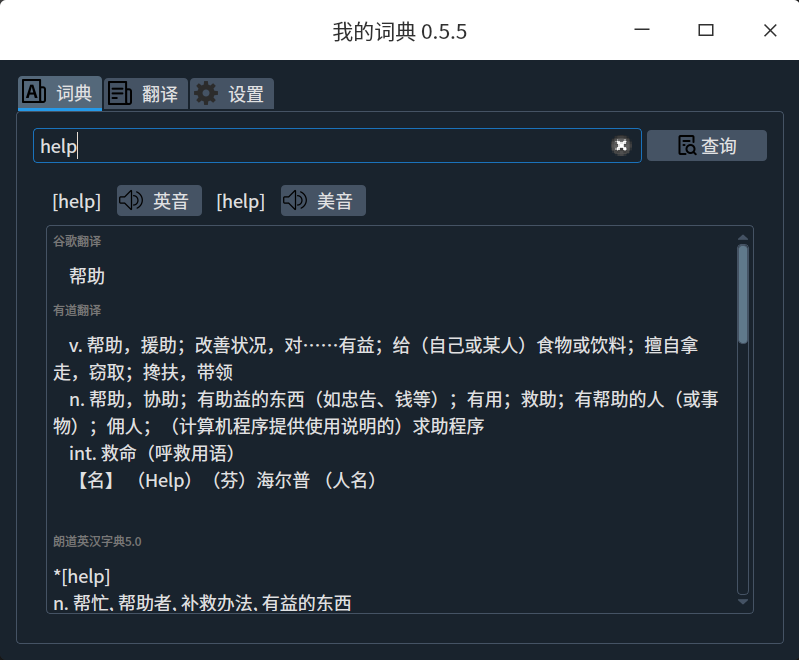
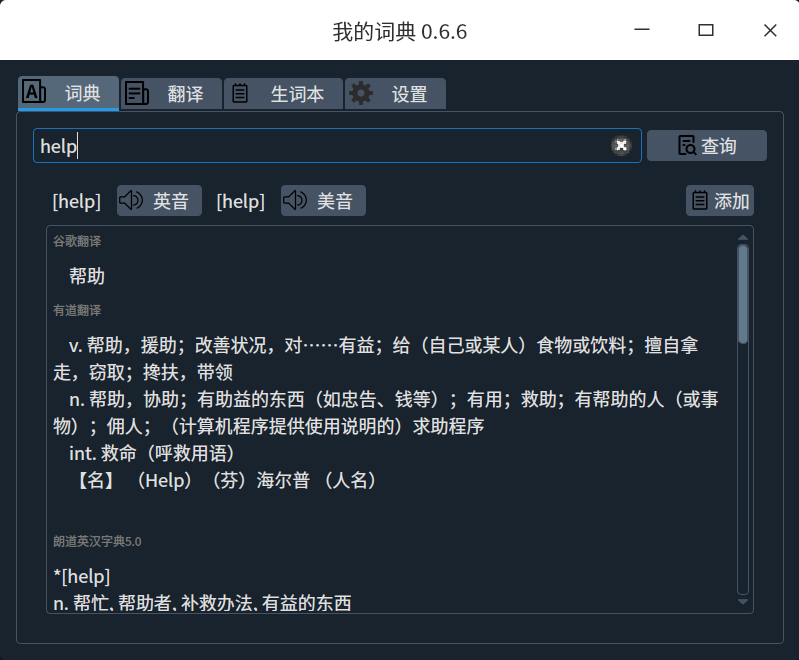
更新readme

Changed region(s): [[0.0601, 0.1212, 0.5707, 0.1818], [0.8411, 0.2727, 0.9612, 0.3333], [0.5407, 0.0303, 0.6008, 0.0606]]

diff --git a/src/UI/word_book.py b/src/UI/word_book.py
@@ -4,16 +4,15 @@ from PyQt5.QtWidgets import QWidget, QComboBox, QPushButton, QCheckBox, QTableWi
 
 from src.UI.review import UiReview
 from src.UI.util import create_line, create_multi_line
-from src.backend.word_book import word_book
+from src.backend.word_book import WordBook
 from src.events import events
 
 
 class UiSelectGroup(QDialog):
     group_id = -1
 
-    def __init__(self):
-        super().__init__()
-
+    def __init__(self, parent, word_book):
+        super().__init__(parent)
         self.combo_groups = QComboBox()
         self.combo_groups.clear()
         for group in word_book.get_groups():
@@ -32,16 +31,16 @@ class UiSelectGroup(QDialog):
 
     def on_ok(self):
         self.group_id = self.combo_groups.currentData()
-        print("dest group_id", self.group_id)
         self.accept()
 
 
-class WordBook(QWidget):
+class UiWordBook(QWidget):
     groups = {}
 
     def __init__(self, parent=None):
         super().__init__(parent=parent)
 
+        self.word_book = WordBook()
         events.signal_add_2_wordbook.connect(self.on_add_word)
 
         self.combo_groups = QComboBox()
@@ -94,7 +93,7 @@ class WordBook(QWidget):
     def init_groups(self):
         self.combo_groups.clear()
         self.groups.clear()
-        groups = word_book.get_groups()
+        groups = self.word_book.get_groups()
         for group in groups:
             self.groups[group[0]] = group[1]
         self.combo_groups.addItem("所有分类", -1)
@@ -113,10 +112,10 @@ class WordBook(QWidget):
             return
         for i in range(self.table.rowCount()):
             self.table.removeRow(0)
-        for word in word_book.get_words(self.combo_groups.currentData()):
+        for word in self.word_book.get_words(self.combo_groups.currentData()):
             self.table.insertRow(0)
             word_id = word[0]
-            group_id = word_book.get_group(word_id)
+            group_id = self.word_book.get_group(word_id)
             if len(group_id) > 0:
                 group_id = group_id[0][0]
             else:
@@ -144,22 +143,22 @@ class WordBook(QWidget):
         name, succeed = QInputDialog.getText(self, "新增分类", "分类名称")
         if name is None or not succeed:
             return
-        word_book.create_group(name)
+        self.word_book.create_group(name)
         self.init_groups()
 
     def on_delete_group(self):
         if self.combo_groups.currentIndex() < 0:
             return
-        word_book.delete_group(self.combo_groups.currentData())
+        self.word_book.delete_group(self.combo_groups.currentData())
         self.init_groups()
 
     def on_add_word(self, word, translate):
-        word_id = word_book.add_word(word, translate)
-        word_book.add_word_to_group(word_id, 1)
+        word_id = self.word_book.add_word(word, translate)
+        self.word_book.add_word_to_group(word_id, 1)
         self.init_groups()
 
     def on_change_group(self):
-        d = UiSelectGroup()
+        d = UiSelectGroup(self, self.word_book)
         if d.exec_() != 1:
             return
 
@@ -169,8 +168,8 @@ class WordBook(QWidget):
                 continue
             word_id = item.data(Qt.UserRole)
             group_id = item.data(Qt.UserRole + 1)
-            word_book.add_word_to_group(word_id, d.group_id)
-            word_book.delete_word_from_group(word_id, group_id)
+            self.word_book.add_word_to_group(word_id, d.group_id)
+            self.word_book.delete_word_from_group(word_id, group_id)
 
         self.init_words()
 
@@ -180,7 +179,7 @@ class WordBook(QWidget):
             item = self.table.item(i, 0)
             if item.checkState() != Qt.Checked:
                 continue
-            word_book.delete_word(item.data(Qt.UserRole))
+            self.word_book.delete_word(item.data(Qt.UserRole))
             self.table.removeRow(i)
 
     def on_double_clicked(self, item: QTableWidgetItem):
@@ -188,6 +187,6 @@ class WordBook(QWidget):
         item.setCheckState(Qt.Checked if item.checkState() != Qt.Checked else Qt.Unchecked)
 
     def on_review(self):
-        d = UiReview(self, self.combo_groups.currentData())
+        d = UiReview(self, self.combo_groups.currentData(), self.word_book)
         d.exec_()
         self.init_words()

diff --git a/src/UI/review.py b/src/UI/review.py
@@ -2,10 +2,10 @@ import random
 
 from PyQt5.QtCore import QSize
 from PyQt5.QtGui import QFont
-from PyQt5.QtWidgets import QDialog, QCheckBox, QPushButton, QLabel, QMessageBox, QTextEdit
+from PyQt5.QtWidgets import QDialog, QCheckBox, QPushButton, QMessageBox, QTextEdit
 
 from src.UI.util import create_line, create_multi_line
-from src.backend.word_book import word_book
+from src.backend.word_book import WordBook
 
 
 class UiReview(QDialog):
@@ -13,9 +13,10 @@ class UiReview(QDialog):
     current = -1
     right_index = -1
 
-    def __init__(self, parent, group_id):
+    def __init__(self, parent, group_id, word_book: WordBook):
         super().__init__(parent)
         self.setWindowTitle("复习生词")
+        self.word_book = word_book
         for word in word_book.get_words(group_id, for_review=True):
             self.words.append({
                 "id": word[0],
@@ -73,7 +74,7 @@ class UiReview(QDialog):
                     if self.words[-1] != curr:
                         self.words.append(curr)
                     return
-            word_book.review_word(curr["id"], curr["review_count"] + 1)
+            self.word_book.review_word(curr["id"], curr["review_count"] + 1)
 
         self.current += 1
         if self.current == len(self.words) - 1:

diff --git a/src/main_window.py b/src/main_window.py
@@ -2,8 +2,7 @@ from PyQt5.QtCore import QRect
 from PyQt5.QtWidgets import QWidget, QDesktopWidget, QTabWidget
 
 from src.UI.util import create_line
-from src.UI.word_book import WordBook
-from src.backend import word_book
+from src.UI.word_book import UiWordBook
 from src.backend.online import OnLine
 from src.backend.stardict import StartDict
 from src.events import events
@@ -21,7 +20,6 @@ class MainWindow(QWidget):
 
     def __init__(self, app):
         super().__init__()
-        word_book.init()
         self.app = app
         self.on_setting_changed()
         events.signal_setting_changed.connect(self.on_setting_changed)
@@ -41,7 +39,7 @@ class MainWindow(QWidget):
         self.tab = QTabWidget()
         self.tab.addTab(FindWord(self.online, self.star_dict, self), '  词典  ')
         self.tab.addTab(FindText(self.online, self), '  翻译  ')
-        self.tab.addTab(WordBook(self), '  生词本  ')
+        self.tab.addTab(UiWordBook(self), '  生词本  ')
         self.tab.addTab(SettingWindow(self, self.star_dict), '  设置  ')
         self.tab.tabBar().setMinimumWidth(200)
         self.tab.tabBar().setTabIcon(0, load_icon("word"))

diff --git a/src/backend/word_book.py b/src/backend/word_book.py
@@ -200,10 +200,12 @@ class WordBook:
             return []
 
 
-word_book = None
+_word_book: WordBook = None
 
 
-def init():
-    global word_book
-    word_book = WordBook()
+def get_word_book():
+    global _word_book
+    if _word_book is None:
+        _word_book = WordBook()
+    return _word_book
 

diff --git a/readme.md b/readme.md
@@ -36,6 +36,12 @@
 
 ![下载词典](readme.assets/download.png)
 
+# 生词本
+
+![wordbook](readme.assets/wordbook.png)
+
+![review](readme.assets/review.png)
+
 # 支持的系统
 
 - UOS 社区版 20.2.4
